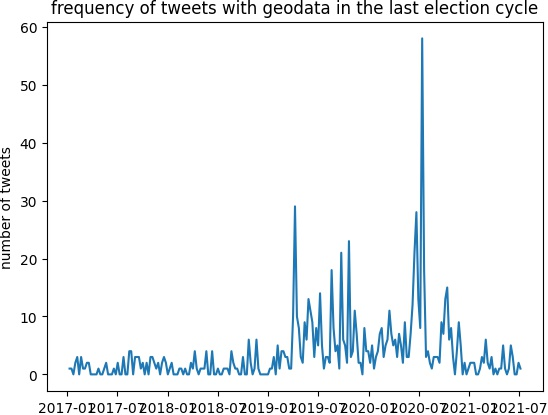
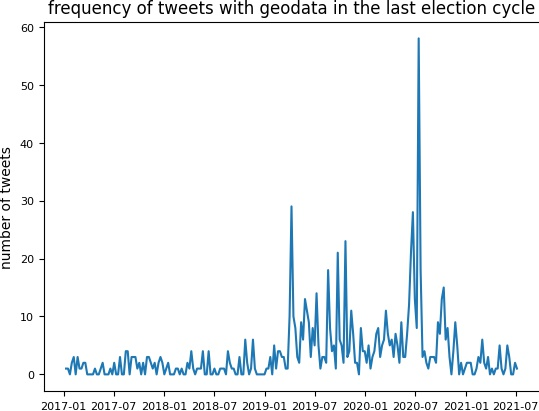
added fig, ax = subplots

Changed region(s): [[0.0, 0.0, 1.0, 1.0]]

diff --git a/reading_csv.py b/reading_csv.py
@@ -51,9 +51,17 @@ print(occurences)
 print(week_nums)
 print(len(occurences))
 print(len(week_nums))
-plt.plot(week_nums, occurences[:-1])
+fig, ax = plt.subplots()
+
+for label in (ax.get_xticklabels() + ax.get_yticklabels()):
+    label.set_fontsize(8)
+
+ax.plot(week_nums, occurences[:-1])
 plt.ylabel('number of tweets')
 plt.title('frequency of tweets with geodata in the last election cycle')
 
 plt.savefig('first_elec_cycle.jpg', bbox_inches = 'tight', pad_inches = 0.001) #0.1 is default when bbox is tight
+
+
+
 
